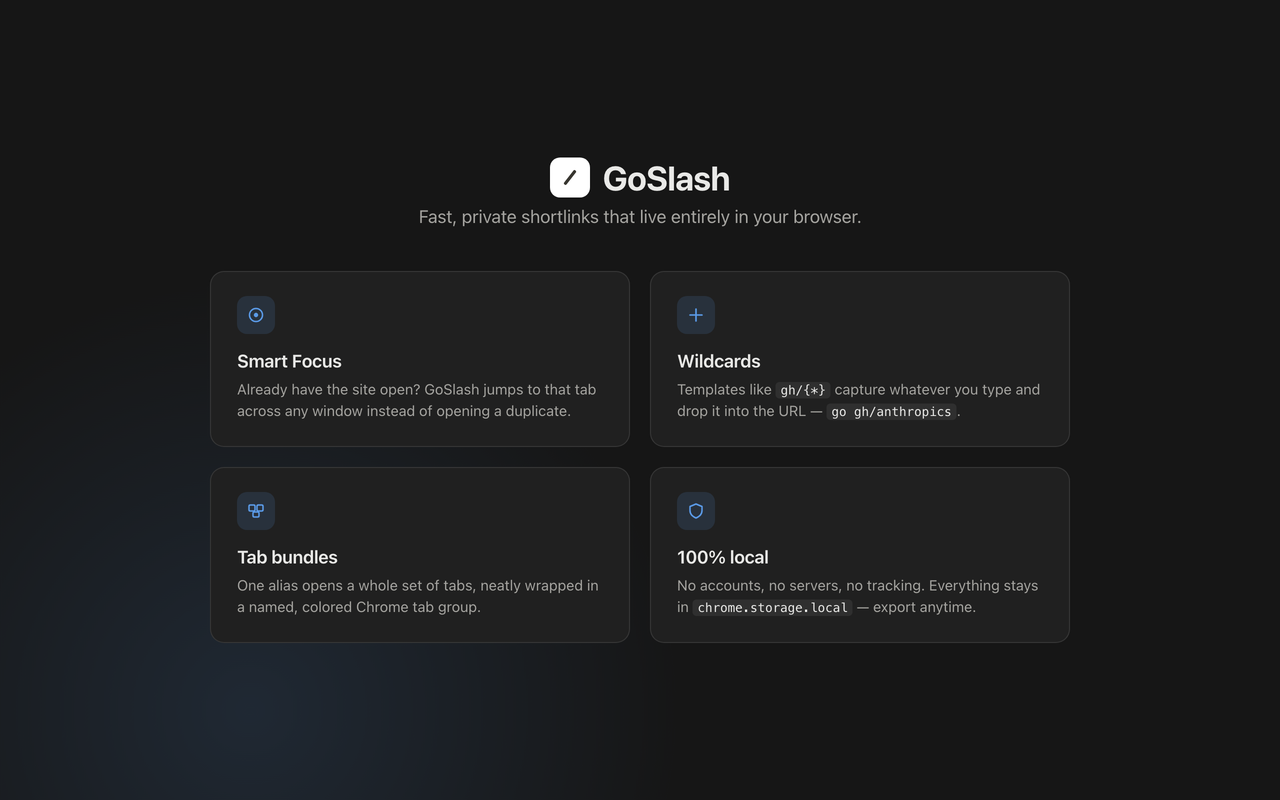
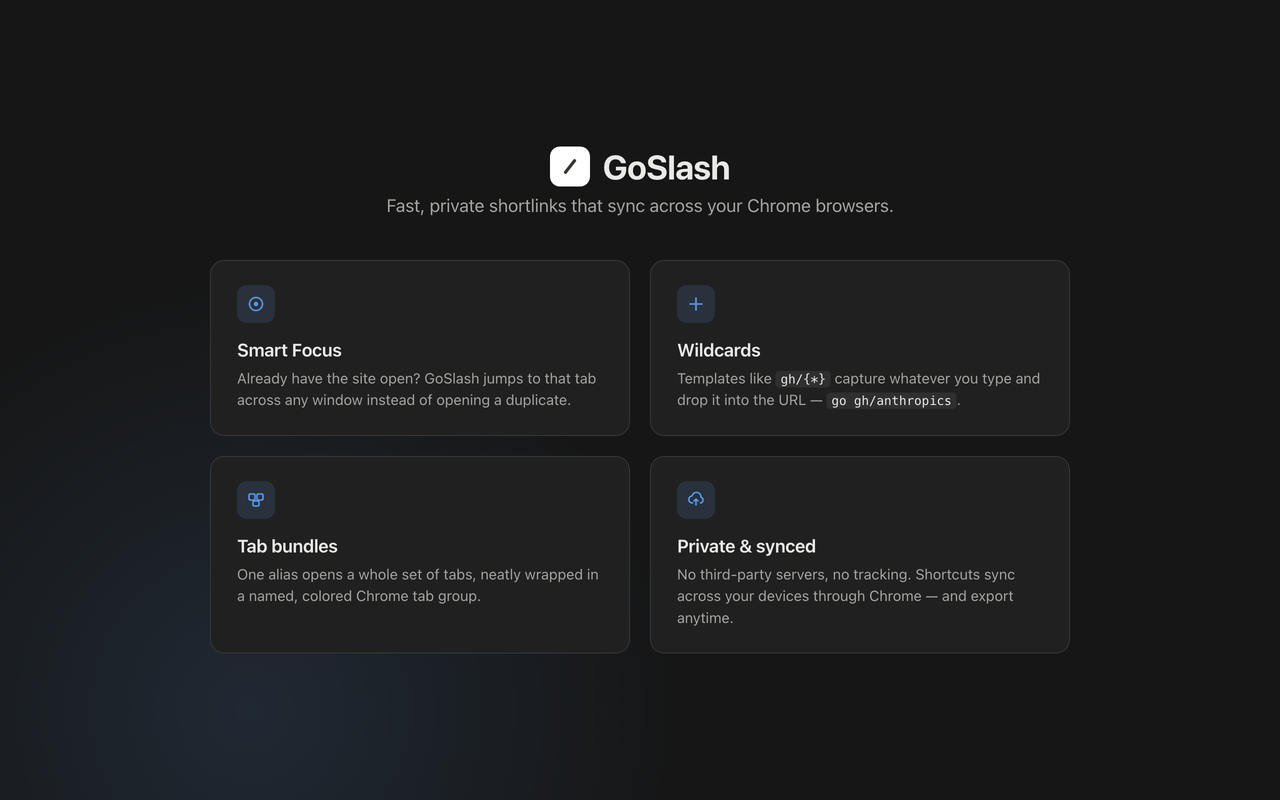
more store/screenshot changes

diff --git a/store/scene_features.html b/store/scene_features.html
@@ -35,7 +35,7 @@
       <span class="mark"><svg width="22" height="22" viewBox="0 0 17 17" fill="none"><path d="M12 4 L5 13" stroke="#37352f" stroke-width="2.4" stroke-linecap="round"/></svg></span>
       <h1>GoSlash</h1>
     </div>
-    <p class="tag">Fast, private shortlinks that live entirely in your browser.</p>
+    <p class="tag">Fast, private shortlinks that sync across your Chrome browsers.</p>
     <div class="grid">
       <div class="feat">
         <div class="ic"><svg width="20" height="20" viewBox="0 0 20 20" fill="none"><circle cx="10" cy="10" r="6.5" stroke="currentColor" stroke-width="1.5"/><circle cx="10" cy="10" r="2.2" fill="currentColor"/></svg></div>
@@ -53,9 +53,9 @@
         <p>One alias opens a whole set of tabs, neatly wrapped in a named, colored Chrome tab group.</p>
       </div>
       <div class="feat">
-        <div class="ic"><svg width="20" height="20" viewBox="0 0 20 20" fill="none"><path d="M10 3 4 5.5v4C4 13 6.6 15.6 10 17c3.4-1.4 6-4 6-7.5v-4L10 3Z" stroke="currentColor" stroke-width="1.5" stroke-linejoin="round"/></svg></div>
-        <h3>100% local</h3>
-        <p>No accounts, no servers, no tracking. Everything stays in <code>chrome.storage.local</code> — export anytime.</p>
+        <div class="ic"><svg width="20" height="20" viewBox="0 0 20 20" fill="none"><path d="M6.5 13a3.5 3.5 0 0 1-.4-7A4.5 4.5 0 0 1 15 7.2a3 3 0 0 1-.6 5.8" stroke="currentColor" stroke-width="1.5" stroke-linecap="round" stroke-linejoin="round"/><path d="M10 9v6m0-6 2 2m-2-2-2 2" stroke="currentColor" stroke-width="1.5" stroke-linecap="round" stroke-linejoin="round"/></svg></div>
+        <h3>Private &amp; synced</h3>
+        <p>No third-party servers, no tracking. Shortcuts sync across your devices through Chrome — and export anytime.</p>
       </div>
     </div>
   </div>

diff --git a/options.html b/options.html
@@ -326,7 +326,7 @@
         </button>
       </div>
     </header>
-    <p class="subtitle">Local-first shortlinks · everything is stored in this browser only.</p>
+    <p class="subtitle">Private shortlinks · synced across the Chrome browsers signed into your account.</p>
 
     <div class="usage">
       <svg width="16" height="16" viewBox="0 0 16 16" fill="none"><circle cx="8" cy="8" r="6.4" stroke="currentColor" stroke-width="1.3"/><path d="M8 7v3.4M8 5.1v.1" stroke="currentColor" stroke-width="1.5" stroke-linecap="round"/></svg>

diff --git a/options.js b/options.js
@@ -1,7 +1,7 @@
 /*
  * options.js — GoSlash dashboard.
  *
- * Three coordinated views over the same chrome.storage.local "links" object:
+ * Three coordinated views over the same chrome.storage.sync "links" object:
  *   1. A CRUD list with an editor modal (single + bundle shortcuts).
  *   2. A raw JSON editor for power users.
  *   3. Import / Export of golinks.json.

diff --git a/popup.js b/popup.js
@@ -2,7 +2,7 @@
  * popup.js — quick "save this page as a shortcut" UI.
  *
  * Reads the active tab, lets the user assign an alias, and writes straight to
- * chrome.storage.local. A live mapping line ("go cal → opens this page") makes
+ * chrome.storage.sync. A live mapping line ("go cal → opens this page") makes
  * it obvious that the *current* page is what gets saved. If the alias contains a
  * {*} wildcard (advanced), the URL is auto-templatized and previewed instead.
  */

diff --git a/store/scene_dashboard.html b/store/scene_dashboard.html
@@ -94,7 +94,7 @@
             <span>Dark</span>
           </span>
         </header>
-        <p class="sub">Local-first shortlinks · everything is stored in this browser only.</p>
+        <p class="sub">Private shortlinks · synced across the Chrome browsers signed into your account.</p>
 
         <div class="quick">
           <p class="qt">Add a shortcut</p>

diff --git a/PRIVACY.md b/PRIVACY.md
@@ -7,23 +7,30 @@ data the extension handles and what it does not.
 
 ## The short version
 
-GoSlash does not collect, transmit, sell, or share any personal data. It has no
-servers, no accounts, and no analytics. Everything you create stays in your own
-browser.
+GoSlash does not collect, transmit, sell, or share your data with the developer or
+any third party. It has no servers of its own, no developer account, and no
+analytics. Your shortcuts are stored in your browser and, if you are signed into
+Chrome, synced across your own devices by Chrome's built-in sync.
 
 ## What data GoSlash stores
 
 GoSlash stores the shortcuts you create — their aliases, target URLs, and related
 settings (such as tab-bundle and tab-group options) — together with your theme
-preference. This information is saved locally on your device using the browser's
-`chrome.storage.local` API.
+preference. This information is saved using the browser's `chrome.storage.sync`
+API.
 
 This data:
 
-- never leaves your device,
-- is not sent to the developer or any third party,
+- is stored in your browser profile,
+- is synchronized across the Chrome browsers signed into your Google account using
+  Chrome's built-in sync (the same mechanism that syncs your bookmarks), if sync is
+  enabled,
+- is not sent to the developer of GoSlash,
 - is not used for advertising or tracking,
 - can be exported or deleted by you at any time from the extension's dashboard.
+
+If you are signed out of Chrome or have sync disabled, the data simply stays on
+your device.
 
 ## Browser permissions
 
@@ -44,11 +51,14 @@ transmitted, or stored anywhere other than your local browser storage.
 
 GoSlash makes no network requests of its own. When you open a shortcut, your
 browser navigates to the URL you configured, exactly as if you had typed it
-yourself.
+yourself. Any synchronization of your shortcuts is performed by Chrome itself, not
+by GoSlash.
 
 ## Third parties
 
-GoSlash does not use any third-party services, SDKs, or trackers.
+GoSlash does not use any third-party services, SDKs, or trackers. The only data
+transfer involved is Chrome's own sync, which is provided by Google as part of your
+browser and governed by Google's Privacy Policy (https://policies.google.com/privacy).
 
 ## Children's privacy
 

diff --git a/store/STORE.md b/store/STORE.md
@@ -1,7 +1,7 @@
 # Chrome Web Store listing copy
 
 ## Short description (manifest / summary — 132 char max)
-Private, local-first shortlinks. Type "go" in the address bar to open links, wildcards, and tab bundles. No servers, no tracking.
+Private shortlinks that sync across your Chrome. Type "go" in the address bar to open links, wildcards, and tab bundles.
 
 ## Detailed description
 
@@ -9,8 +9,9 @@ Private, local-first shortlinks. Type "go" in the address bar to open links, wil
 short alias — and you're there. No new tab to a bookmarks page, no fuzzy history
 search, no reaching for the mouse.
 
-It's completely local. Your shortcuts live in your browser and never touch a
-server. No account, no sync cloud, no analytics.
+It's private by design. Your shortcuts live in your browser, sync across your own
+devices through Chrome (if you're signed in), and never go to us. No developer
+account, no third-party servers, no analytics.
 
 **What you can do**
 
@@ -30,14 +31,18 @@ server. No account, no sync cloud, no analytics.
 • Domain overrides — send the same alias to a different URL depending on the site
   you're currently on.
 
+• Syncs with you — shortcuts are stored with `chrome.storage.sync`, so they follow
+  you to every Chrome signed into your account, automatically.
+
 • A clean dashboard — search, edit, and organize everything. Light, dark, or
   match-your-system theme. Import and export your whole setup as a single JSON
   file for backup or moving between machines.
 
 **Private by design**
 
-Everything is stored in `chrome.storage.local`. GoSlash makes no network requests
-and collects nothing. Your shortcuts are yours.
+GoSlash makes no network requests of its own and collects nothing. Your shortcuts
+are stored with `chrome.storage.sync` and synced only across your own devices by
+Chrome's built-in sync — the same way your bookmarks are. Your shortcuts are yours.
 
 **How to use it**
 
@@ -61,10 +66,10 @@ Productivity
 - **tabGroups** — Group the tabs opened by a "bundle" shortcut into a named Chrome tab group.
 
 ## Single purpose
-GoSlash lets users create and use custom keyword shortcuts via the "go" address-bar keyword to quickly open links and bundles of tabs. All data is stored locally in the browser.
+GoSlash lets users create and use custom keyword shortcuts via the "go" address-bar keyword to quickly open links and bundles of tabs. Shortcuts are stored with chrome.storage.sync so they sync across the user's own Chrome browsers.
 
 ## Data usage
-Does not collect or transmit any user data. Everything is stored in chrome.storage.local; no network requests are made.
+GoSlash makes no network requests of its own and does not send any data to the developer or third parties. The shortcuts a user creates are stored via chrome.storage.sync and synchronized only across that user's own devices by Chrome's built-in sync. No data is sold or used for purposes unrelated to the extension's single purpose. (When filling the disclosure: data is not collected by the developer; check that you do not sell data and do not use it for unrelated purposes.)
 
 ## Assets
 - Store icon: store/store_icon_128.png (128×128)

diff --git a/README.md b/README.md
@@ -1,8 +1,9 @@
 # GoSlash
 
-Private, local-first custom shortlinks for Chrome (Manifest V3). Type `go` in the
-address bar, press Space/Tab, then an alias — and jump anywhere. Everything is
-stored in `chrome.storage.local`; there are no remote servers or cloud databases.
+Private custom shortlinks for Chrome (Manifest V3). Type `go` in the address bar,
+press Space/Tab, then an alias — and jump anywhere. Shortcuts are stored with
+`chrome.storage.sync`, so they follow you across the Chrome browsers signed into
+your account. The extension itself has no servers and makes no network requests.
 
 ## Install (unpacked)
 
@@ -80,5 +81,6 @@ A single object keyed by alias:
 | `icons/` | Toolbar icons (regenerate with `generate_icons.py`) |
 
 ## Permissions
-`storage`, `tabs`, `activeTab`, `windows`, `tabGroups`. No host permissions, no
-network access — your shortcuts never leave the browser.
+`storage`, `tabs`, `activeTab`, `windows`, `tabGroups`. No host permissions and no
+network access — the only data movement is Chrome's own sync of your shortcuts
+across your devices.